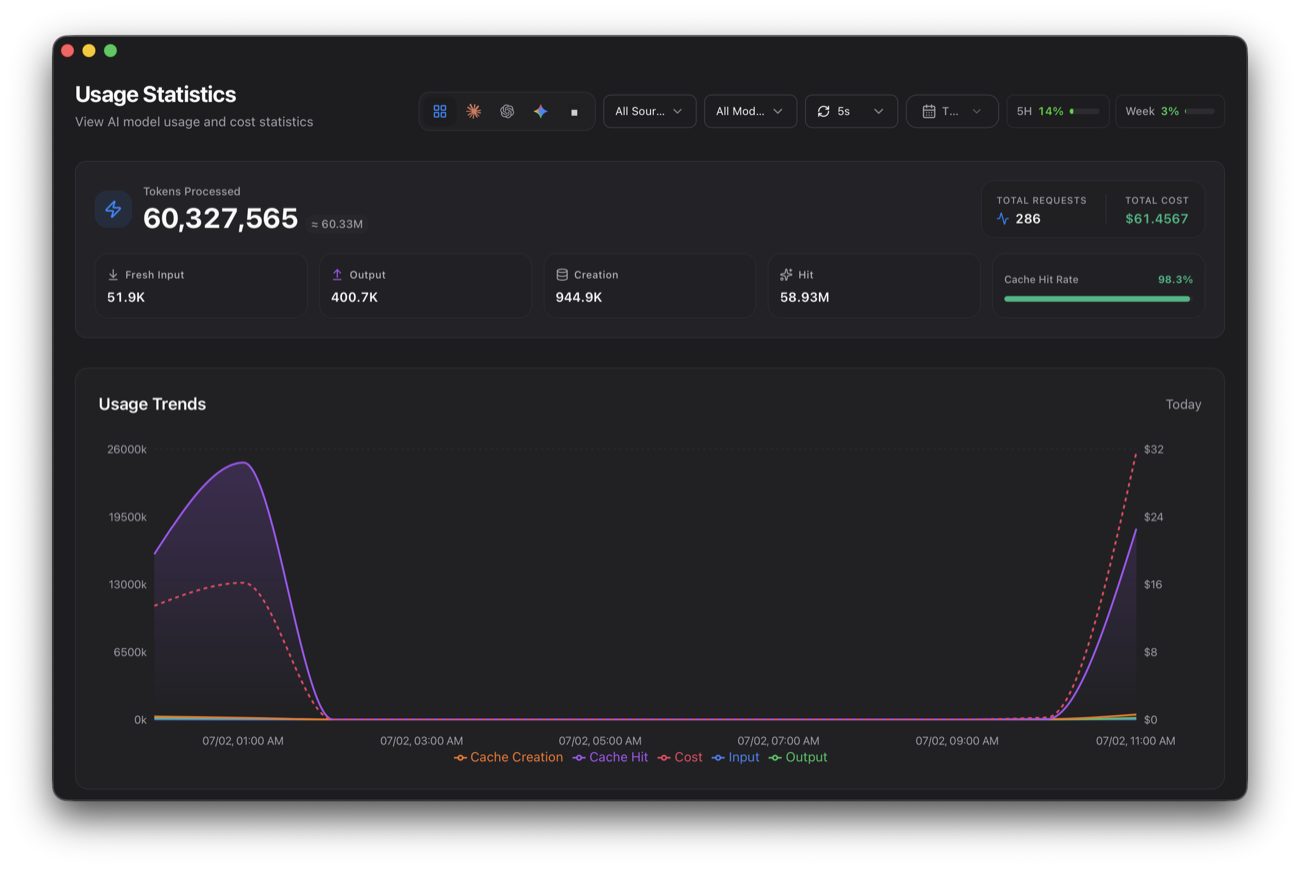
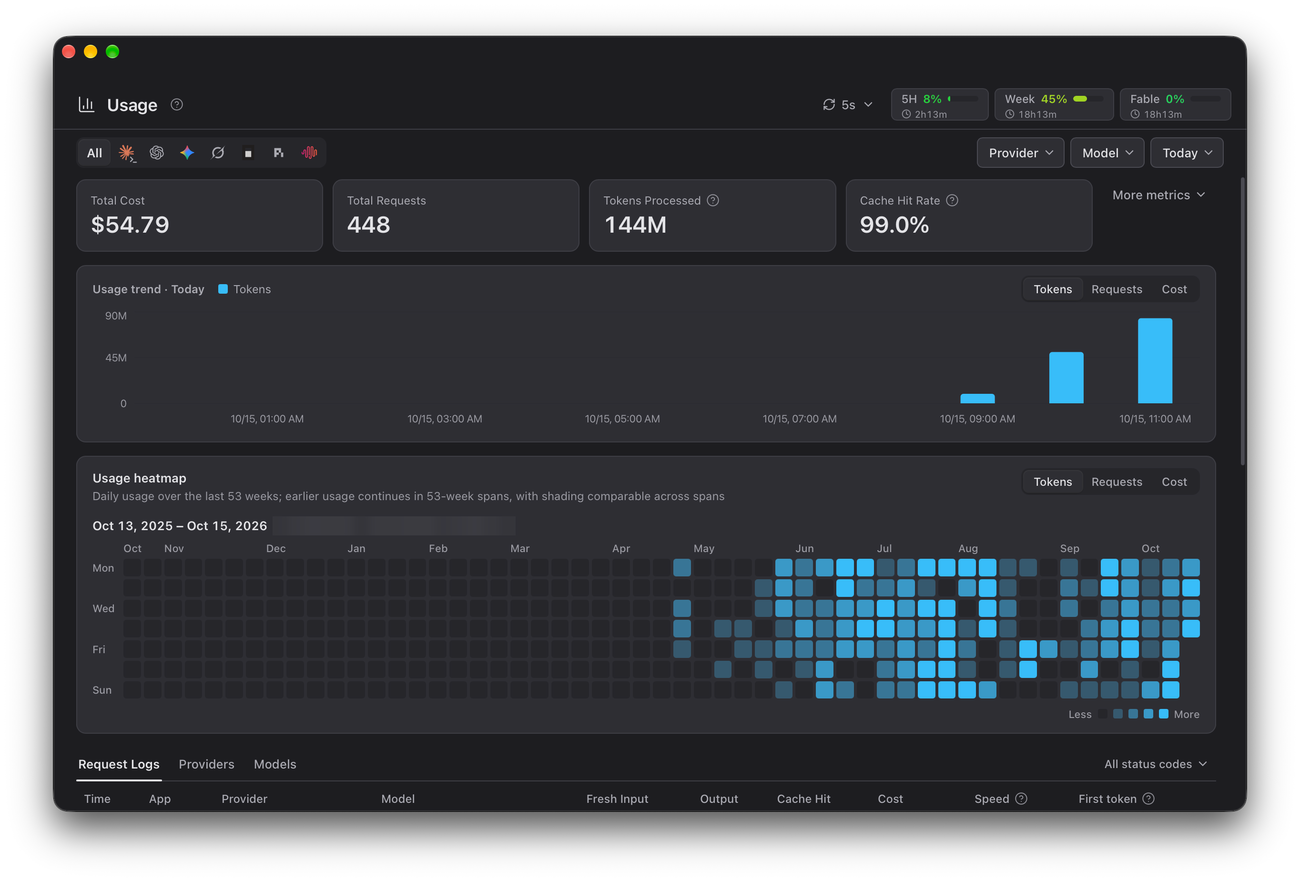
docs(readme): 主窗口截图换成 v2.0.0 新界面（真实数据，热力图年度总计已打码）

diff --git a/docs/specs/2026-10-15-主窗口升级-cc-switch-v4-用量页.md b/docs/specs/2026-10-15-主窗口升级-cc-switch-v4-用量页.md
@@ -63,4 +63,4 @@
 ## 暂缓 / 不做
 - 定价页签、数据来源抽屉、立即同步：用户选择不放（见变更背景）。
 - 叠加行的耗时 / 首字估算：用户选择显示「—」。cc-switch 挂在托盘时每 10 分钟导入一次，空白只持续到下次导入。
-- README 主窗口截图仍是 7 月的 3.x 界面，待用户决定是否更换（新截图会带真实用量数字）。
+- README 主窗口截图已换成 v2.0.0 新界面（用户选择用真实数据；热力图标题里的近一年总计按用户要求打码，只公开当天数字）。
